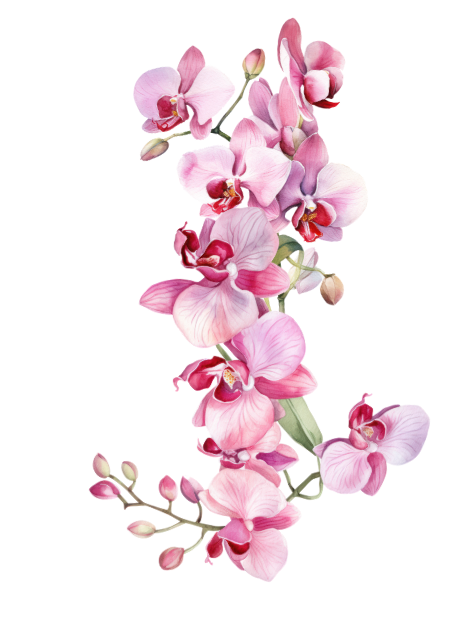
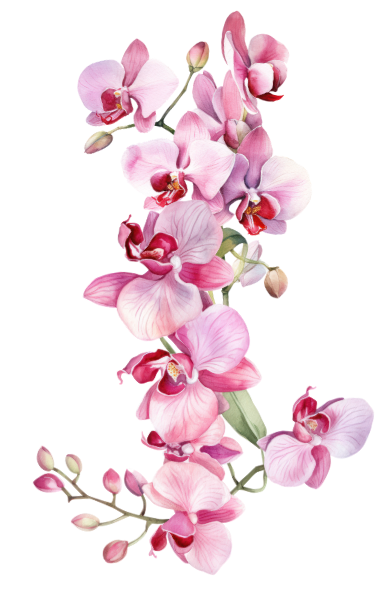
smaller orchid

Changed region(s): [[0.093, 0.0, 0.9612, 0.9672]]

diff --git a/index.html b/index.html
@@ -274,13 +274,13 @@
 <body>
     <header>
         <div style="display: flex; justify-content: space-between; align-items: center; height: 400px; overflow: hidden;">
-            <img src="orchid-transparent.png" style="transform: scaleX(-1); position: relative; left: -150px">
+            <img src="orchid-transparent.png" style="transform: scaleX(-1); position: relative; margin-left: -150px">
             <div style="position: relative">
                 <h1>Mariage de Patricia et Thibaut</h1>
                 <p class="tagline">Rejoignez-nous pour célébrer notre union !</p>
                 <p class="date-time">Samedi 19 et dimanche 20 Septembre 2026</p>
             </div>
-            <img src="orchid-transparent.png" style="position: relative; right: -150px">
+            <img src="orchid-transparent.png" style="position: relative; margin-right: -150px">
         </div>
     </header>
 
